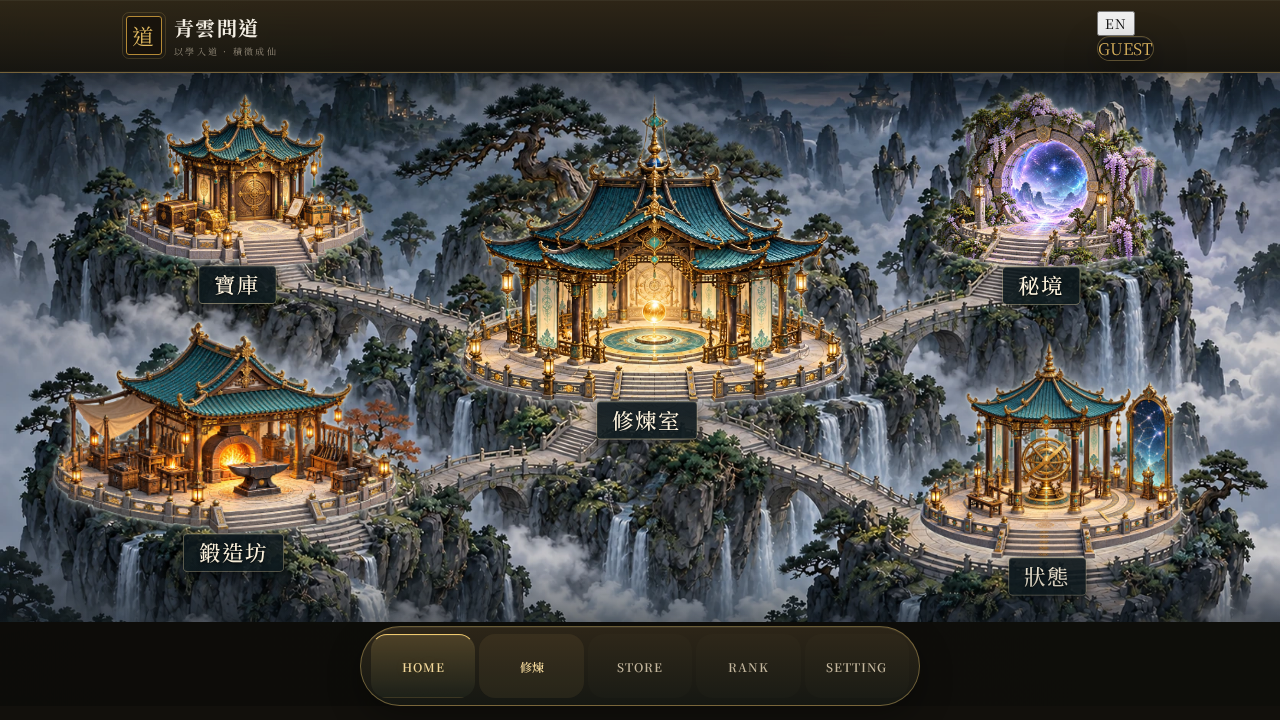
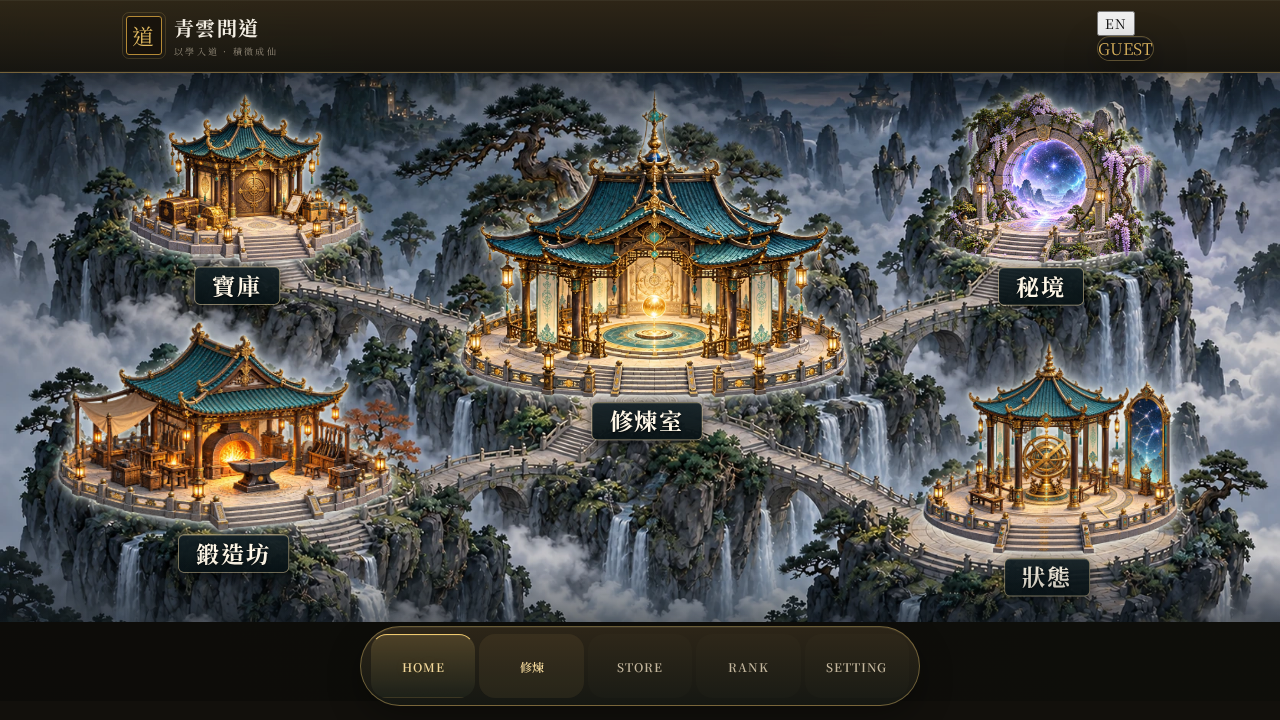
fix: clarify training scene names and smooth cloud navigation
Keep all five location names visibly below their architecture on stronger dark and gold plaques, with brighter text and a separate unlock line that grows downward. Make the plaques clickable and brighten the white alpha contour and soft bloom in both orientations.

Decode the clouds during the button pulse, preserve each phase's ending pose, then contract and dissolve the same feathered cloud banks after the destination paints. Prevent the underlying page and tab slide from competing with this curtain. Hide the tab strip when a destination has only one available tab; retain Bag/Equipment and Golden Core/Nascent Soul choices when both are available. Refresh desktop and mobile previews and static module versions.

Validation: 96 related tests pass, including motion ownership and restoration. Chromium fixtures using actual markup, CSS and scene modules pass 185 layout and interaction checks across seven display sizes and four realm states, plus exact cloud pose, monotonic reveal and edge-mask checks. Verify name placement and clicks, single-tab suppression, permanent unlocks, rapid navigation, account switching and reduced motion. Syntax, diff and module-version checks pass.

diff --git a/public/cultivation/training-scene-map.js b/public/cultivation/training-scene-map.js
@@ -36,12 +36,22 @@ function setDetail(placeId) {
   bar.hidden = false;
   page.dataset.trainingPlace = place.id;
   bar.querySelector('strong').textContent = place.name;
+  updateDetailTabs();
+}
+function updateDetailTabs() {
+  if (!page) return;
+  const place = page.dataset.trainingPlace;
+  const tabs = [...page.querySelectorAll('.training-subtab-v3')].filter(tab =>
+    tabPlace[tab.dataset.trainingTab || (tab.id === 'training-status-tab' ? 'status' : '')] === place &&
+    !tab.hidden && !tab.classList.contains('hidden'));
+  page.classList.toggle('training-single-tab', !!place && tabs.length <= 1);
 }
 function showMap({ focus = false } = {}) {
   navigationRevision++;
   ensure();
   if (!page) return;
   delete page.dataset.trainingPlace;
+  page.classList.remove('training-single-tab');
   page.classList.add('training-scene-map-active');
   map.hidden = false;
   bar.hidden = true;
@@ -63,10 +73,16 @@ function openPlace(place) {
   window.resetTrainingScroll?.();
   bar.querySelector('button').focus({ preventScroll: true });
 }
-async function animate(node, frames, duration) {
-  if (!node.animate) return;
-  const animation = node.animate(frames, { duration, easing: 'cubic-bezier(.22,.7,.25,1)', fill: 'forwards' });
-  try { await animation.finished; } catch (_) {}
+async function animate(node, frames, duration, { preserve = false, easing = 'cubic-bezier(.22,.7,.25,1)' } = {}) {
+  const keepEndState = () => {
+    if (!preserve) return;
+    for (const property of ['transform', 'opacity']) {
+      if (frames.at(-1)[property] !== undefined) node.style[property] = frames.at(-1)[property];
+    }
+  };
+  if (!node.animate) { keepEndState(); return; }
+  const animation = node.animate(frames, { duration, easing, fill: 'both' });
+  try { await animation.finished; keepEndState(); } catch (_) {}
   animation.cancel();
 }
 async function enter(place, button) {
@@ -80,40 +96,54 @@ async function enter(place, button) {
   let curtain;
   try {
     if (!reducedMotion()) {
+      const clouds = ['left', 'right'].map(side => {
+        const image = document.createElement('img');
+        image.className = `training-cloud-${side}`;
+        image.src = `assets/cloud-${side}.png`;
+        image.alt = '';
+        image.draggable = false;
+        return image;
+      });
+      // Decode while the button pulses, so the first cloud frame is ready.
+      const cloudsReady = Promise.allSettled(clouds.map(image => image.decode?.()));
       await animate(button, [{ transform: 'scale(1)' }, { transform: 'scale(1.065)', offset: .42 },
         { transform: 'scale(.985)', offset: .82 }, { transform: 'scale(1)' }], 230);
-    }
-    if (!stillCurrent()) return;
-    if (reducedMotion()) { openPlace(place); return; }
-    curtain = document.createElement('div');
-    curtain.className = 'training-cloud-transition';
-    curtain.setAttribute('aria-hidden', 'true');
-    const mist = document.createElement('div');
-    mist.className = 'training-cloud-mist';
-    const clouds = ['left', 'right'].map(side => {
-      const image = document.createElement('img');
-      image.src = `assets/cloud-${side}.png`;
-      image.alt = '';
-      image.draggable = false;
-      return image;
-    });
-    curtain.append(mist, ...clouds);
-    document.body.appendChild(curtain);
-    await Promise.all([
-      animate(mist, [{ opacity: 0 }, { opacity: 1 }], 300),
-      ...clouds.map((cloud, index) => animate(cloud, [
-        { transform: `translateX(${index ? 102 : -102}%) scale(1.08)` },
-        { transform: 'translateX(0) scale(1)' }
-      ], 300))
-    ]);
-    if (!stillCurrent()) return;
-    // Mount the destination while covered, then contract the clouds into its centre.
-    openPlace(place);
-    await new Promise(resolve => requestAnimationFrame(() => requestAnimationFrame(resolve)));
-    await animate(curtain, [{ clipPath: 'circle(150% at 50% 50%)', opacity: 1, transform: 'scale(1)' },
-      { clipPath: 'circle(0% at 50% 50%)', opacity: 0, transform: 'scale(.82)' }], 420);
+      if (!stillCurrent()) return;
+      await cloudsReady;
+      if (!stillCurrent()) return;
+      curtain = document.createElement('div');
+      curtain.className = 'training-cloud-transition';
+      curtain.setAttribute('aria-hidden', 'true');
+      const mist = document.createElement('div');
+      mist.className = 'training-cloud-mist';
+      curtain.append(mist, ...clouds);
+      document.body.appendChild(curtain);
+      document.body.classList.add('training-cloud-navigating');
+      await Promise.all([
+        animate(mist, [{ opacity: 0 }, { opacity: .28, offset: .55 }, { opacity: 1 }], 360,
+          { preserve: true, easing: 'cubic-bezier(.32,0,.2,1)' }),
+        ...clouds.map((cloud, index) => animate(cloud, [
+          { transform: `translateX(${index ? 105 : -105}%) scale(1.04)`, opacity: 1 },
+          { transform: 'translateX(0) scale(1)', opacity: 1 }
+        ], 360, { preserve: true, easing: 'cubic-bezier(.32,0,.2,1)' }))
+      ]);
+      if (!stillCurrent()) return;
+      // Keep the closed pose while the destination paints; the same clouds then
+      // gather into the centre and dissolve without a hard circular wipe.
+      openPlace(place);
+      await new Promise(resolve => requestAnimationFrame(() => requestAnimationFrame(resolve)));
+      await Promise.all([
+        animate(mist, [{ opacity: 1 }, { opacity: .96, offset: .2 }, { opacity: .24, offset: .65 }, { opacity: 0 }], 520,
+          { preserve: true, easing: 'cubic-bezier(.45,0,.25,1)' }),
+        ...clouds.map((cloud, index) => animate(cloud, [
+          { transform: 'translateX(0) scale(1)', opacity: 1 },
+          { transform: `translateX(${index ? -30 : 30}%) scale(.08)`, opacity: 0 }
+        ], 520, { preserve: true, easing: 'cubic-bezier(.45,0,.25,1)' }))
+      ]);
+    } else if (stillCurrent()) openPlace(place);
   } finally {
     curtain?.remove();
+    document.body.classList.remove('training-cloud-navigating');
     running = false;
     map?.removeAttribute('aria-busy');
   }
@@ -130,7 +160,7 @@ function makeButton(place, layout) {
   // sprite is shared by both maps, with no hand-drawn polygon or stroke.
   const art = document.createElement('span');
   art.className = 'training-place-art';
-  art.style.height = `${(region.label[1] - y - layout.font * .82) / height * 100}%`;
+  art.style.height = `${(region.label[1] - y - layout.font * 1.06) / height * 100}%`;
   const sprite = region.sprite;
   for (const layer of ['aura', 'cutout']) {
     const svg = svgNode('svg', { viewBox: sprite.crop.join(' '), 'aria-hidden': 'true',
@@ -141,8 +171,11 @@ function makeButton(place, layout) {
   }
   const label = document.createElement('span');
   label.className = 'training-place-label';
-  label.style.cssText = `left:${(region.label[0] - x) / width * 100}%;top:${(region.label[1] - y) / height * 100}%`;
+  // Anchor the name below the artwork. Adding an unlock line extends the
+  // plaque downward instead of moving the name up over the building.
+  label.style.cssText = `left:${(region.label[0] - x) / width * 100}%;top:${(region.label[1] - y - layout.font * .84) / height * 100}%`;
   const name = document.createElement('span');
+  name.className = 'training-place-name';
   name.textContent = place.name;
   const realm = document.createElement('small');
   realm.className = 'training-place-realm';
@@ -257,6 +290,7 @@ function sync() {
   ensure();
   wrapNavigation();
   updateLocks();
+  updateDetailTabs();
   scheduleFit();
 }
 function boot() {

diff --git a/public/styles/training-scene-map.css b/public/styles/training-scene-map.css
@@ -64,38 +64,41 @@ body.xianxia-theme #page-training .training-place {
 .training-place-art > svg { position: absolute; inset: 0; }
 /* The broad bloom sits behind the sprite; the delicate rim follows its alpha. */
 .training-place-aura {
-  opacity: .24;
-  filter: brightness(0) invert(1) blur(13px);
+  opacity: .36;
+  filter: brightness(0) invert(1) blur(12px);
   transition: opacity .2s ease;
 }
 .training-place-cutout {
-  filter: drop-shadow(0 0 1.6px #fcfffce0) drop-shadow(0 0 5px #f1fff24d);
+  filter: drop-shadow(0 0 1.8px #fcfffcf2) drop-shadow(0 0 6.5px #f1fff280) drop-shadow(0 0 13px #ffffff24);
   transition: filter .2s ease;
 }
 .training-place-label {
   position: absolute;
+  z-index: 2;
   display: flex;
   flex-direction: column;
   align-items: center;
   width: max-content;
   max-width: none;
-  transform: translate(-50%, -50%);
-  padding: .18em .7em .24em;
-  border: 1px solid #e2d1a37a;
-  border-radius: .2em;
-  background: linear-gradient(180deg, #0c161be8, #101c20e8);
-  box-shadow: 0 .13em .55em #0009, inset 0 1px #ffffff1f;
-  color: #fff5df;
+  transform: translateX(-50%);
+  gap: .07em;
+  padding: .15em .75em .18em;
+  border: 1px solid #e6d09ca6;
+  border-radius: .24em;
+  background: linear-gradient(180deg, #142126f5, #081215f5);
+  box-shadow: 0 .14em .55em #000a, inset 0 1px #fff0c938;
+  color: #fff8e8;
   font-family: var(--xq-serif, serif);
-  font-size: var(--training-map-font);
-  font-weight: 500;
-  line-height: 1.3;
+  font-size: calc(var(--training-map-font) * 1.08);
+  font-weight: 700;
+  line-height: 1.25;
   letter-spacing: .08em;
   white-space: nowrap;
   text-shadow: 0 1px 3px #000;
-  pointer-events: none;
+  pointer-events: auto;
 }
-.training-place-realm { font-size: .64em; letter-spacing: .02em; color: #d9d5ca; }
+.training-place-name { display: block; }
+.training-place-realm { font-size: .6em; font-weight: 500; letter-spacing: .02em; color: #d9d5ca; }
 .training-place-realm[hidden], .training-place-lock[hidden] { display: none; }
 .training-place-lock {
   position: absolute;
@@ -116,13 +119,13 @@ body.xianxia-theme #page-training .training-place {
 .training-place-lock svg { width: .82em; height: .95em; fill: none; stroke: currentColor; stroke-width: 2; }
 .training-place.is-locked .training-place-aura { opacity: 0; }
 .training-place.is-locked .training-place-cutout { filter: brightness(.32) saturate(.2); }
-.training-place.is-locked .training-place-label { color: #c8c8bf; border-color: #92958d66; }
+.training-place.is-locked .training-place-label { border-color: #92958d80; }
 .training-place:not(:disabled):focus-visible .training-place-label { outline: 3px solid white; outline-offset: 4px; }
-.training-place:not(:disabled):focus-visible .training-place-aura { opacity: .48; }
-.training-place:not(:disabled):focus-visible .training-place-cutout { filter: brightness(1.08) drop-shadow(0 0 2px #fff) drop-shadow(0 0 8px #effff280); }
+.training-place:not(:disabled):focus-visible .training-place-aura { opacity: .6; }
+.training-place:not(:disabled):focus-visible .training-place-cutout { filter: brightness(1.08) drop-shadow(0 0 2.3px #fff) drop-shadow(0 0 9px #effff29c) drop-shadow(0 0 18px #ffffff2e); }
 @media (hover: hover) {
-  .training-place:not(:disabled):hover .training-place-aura { opacity: .42; }
-  .training-place:not(:disabled):hover .training-place-cutout { filter: brightness(1.06) drop-shadow(0 0 2px #fff) drop-shadow(0 0 7px #effff266); }
+  .training-place:not(:disabled):hover .training-place-aura { opacity: .54; }
+  .training-place:not(:disabled):hover .training-place-cutout { filter: brightness(1.06) drop-shadow(0 0 2.3px #fff) drop-shadow(0 0 9px #effff29c) drop-shadow(0 0 18px #ffffff2e); }
   .training-place:not(:disabled):hover .training-place-label { border-color: #fff8dc; }
 }
 body.xianxia-theme #page-training .training-scene-detailbar {
@@ -137,6 +140,10 @@ body.xianxia-theme #page-training .training-scene-detailbar {
 body.xianxia-theme #page-training.training-page-v3.active-page[data-training-place] {
   grid-template-rows: auto auto minmax(0, 1fr) !important;
 }
+body.xianxia-theme #page-training.training-page-v3.active-page[data-training-place].training-single-tab {
+  grid-template-rows: auto minmax(0, 1fr) !important;
+}
+body.xianxia-theme #page-training.training-single-tab .training-subtabs-v3 { display: none !important; }
 body.xianxia-theme #page-training .training-scene-back {
   display: inline-flex;
   align-items: center;
@@ -162,6 +169,19 @@ body.xianxia-theme #page-training .training-scene-back {
   pointer-events: auto;
   background: transparent;
 }
-.training-cloud-transition img { position: absolute; inset: 0; width: 100%; height: 100%; object-fit: cover; pointer-events: none; }
-.training-cloud-mist { position: absolute; inset: 0; background: radial-gradient(ellipse, #eef1eaf7, #d5e2e3f2); }
+.training-cloud-transition img {
+  position: absolute;
+  top: 0;
+  width: 68%;
+  height: 100%;
+  object-fit: cover;
+  pointer-events: none;
+  /* Feather the outside of each cloud bank, including its cropped edges. */
+  -webkit-mask-image: radial-gradient(ellipse closest-side at 50% 50%, #000 60%, #000000b3 78%, transparent 100%);
+  mask-image: radial-gradient(ellipse closest-side at 50% 50%, #000 60%, #000000b3 78%, transparent 100%);
+  will-change: transform, opacity;
+}
+.training-cloud-left { left: -4%; object-position: right center; transform: translateX(-105%) scale(1.04); }
+.training-cloud-right { right: -4%; object-position: left center; transform: translateX(105%) scale(1.04); }
+.training-cloud-mist { position: absolute; inset: 0; opacity: 0; background: radial-gradient(ellipse, #f2f4ec, #dee8e3); will-change: opacity; }
 @media (prefers-reduced-motion: reduce) { .training-place-cutout, .training-place-aura { transition: none; } }

diff --git a/public/cultivation/scene-transitions.js b/public/cultivation/scene-transitions.js
@@ -40,6 +40,12 @@ export function sceneDirection(from, to, scope = 'page') {
 // Animate the real content. Never clone trees or stylesheets during navigation.
 export function beginSceneTransition(from, to, theme = 'cloud', scope = 'page', force = false, direction = sceneDirection(from, to, scope)) {
   const noop = () => {};
+  // The training cloud curtain owns this navigation. Starting a second page
+  // or tab slide underneath it makes the reveal appear to jump.
+  if (document.body.classList.contains('training-cloud-navigating')) {
+    running.get(scope)?.();
+    return noop;
+  }
   if ((!force && from === to) || (!from && !to)) return noop;
   running.get(scope)?.();
   if (scope !== 'page' && (running.has('page') || [...running.keys()].some(key => key !== scope && key.endsWith('-open')))) return noop;
